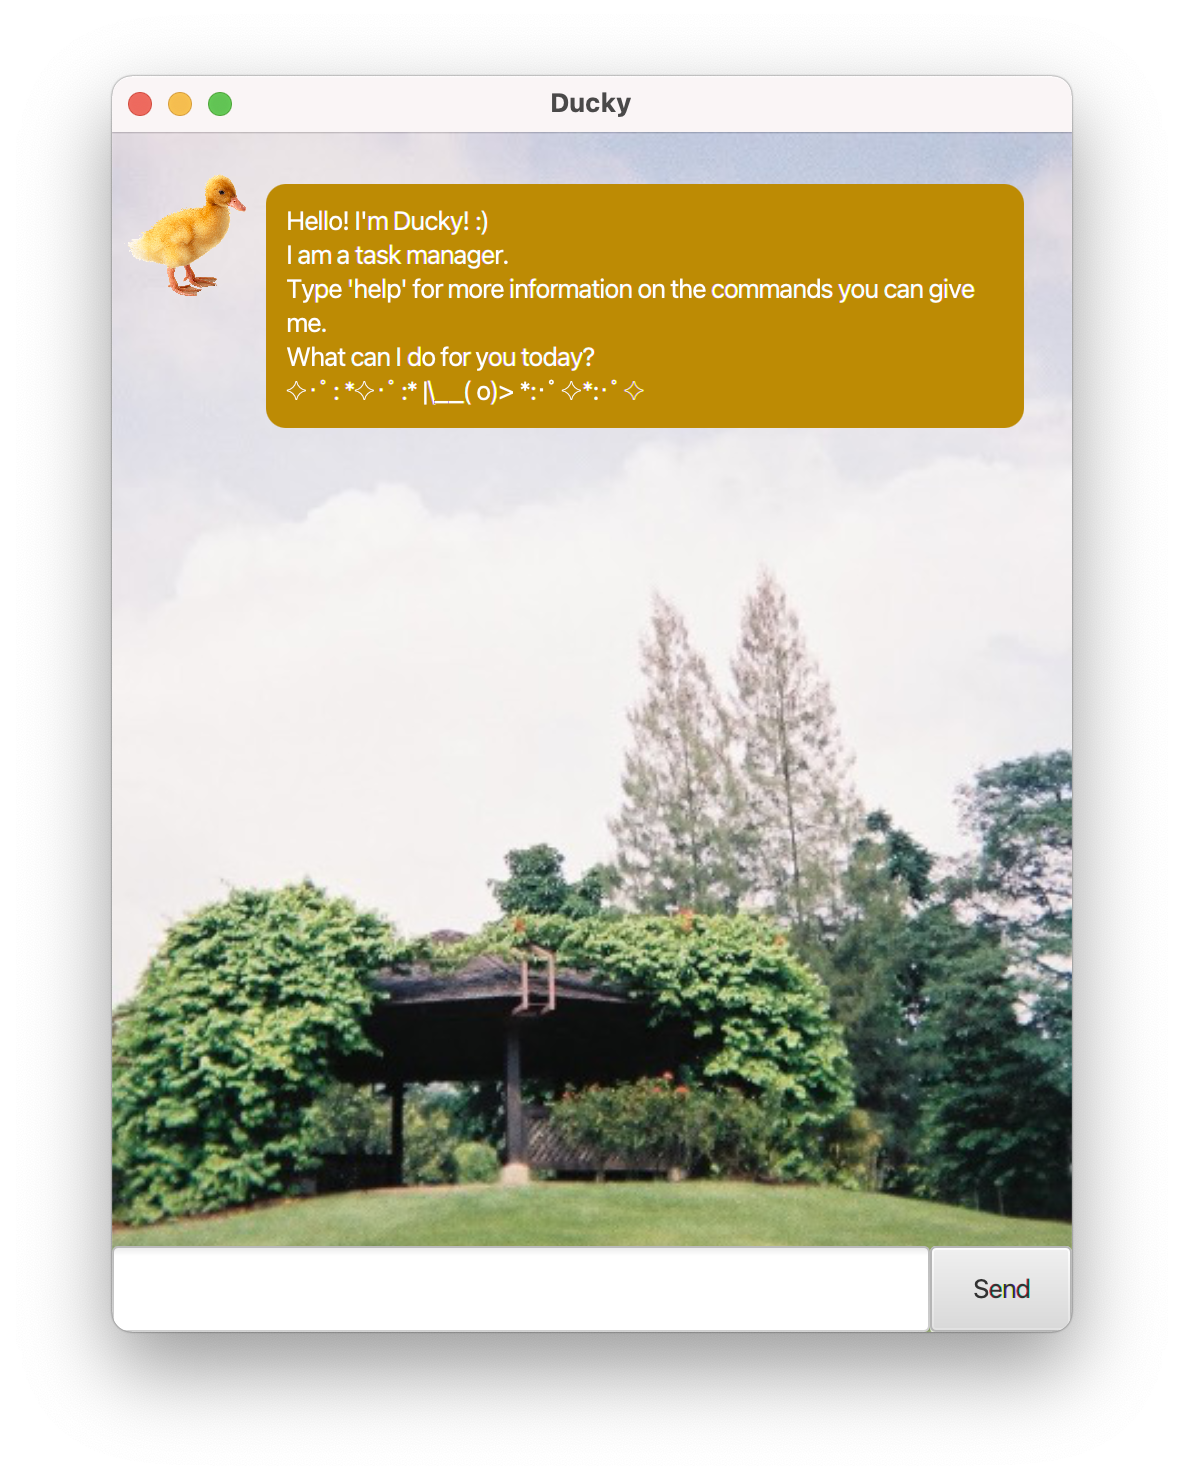
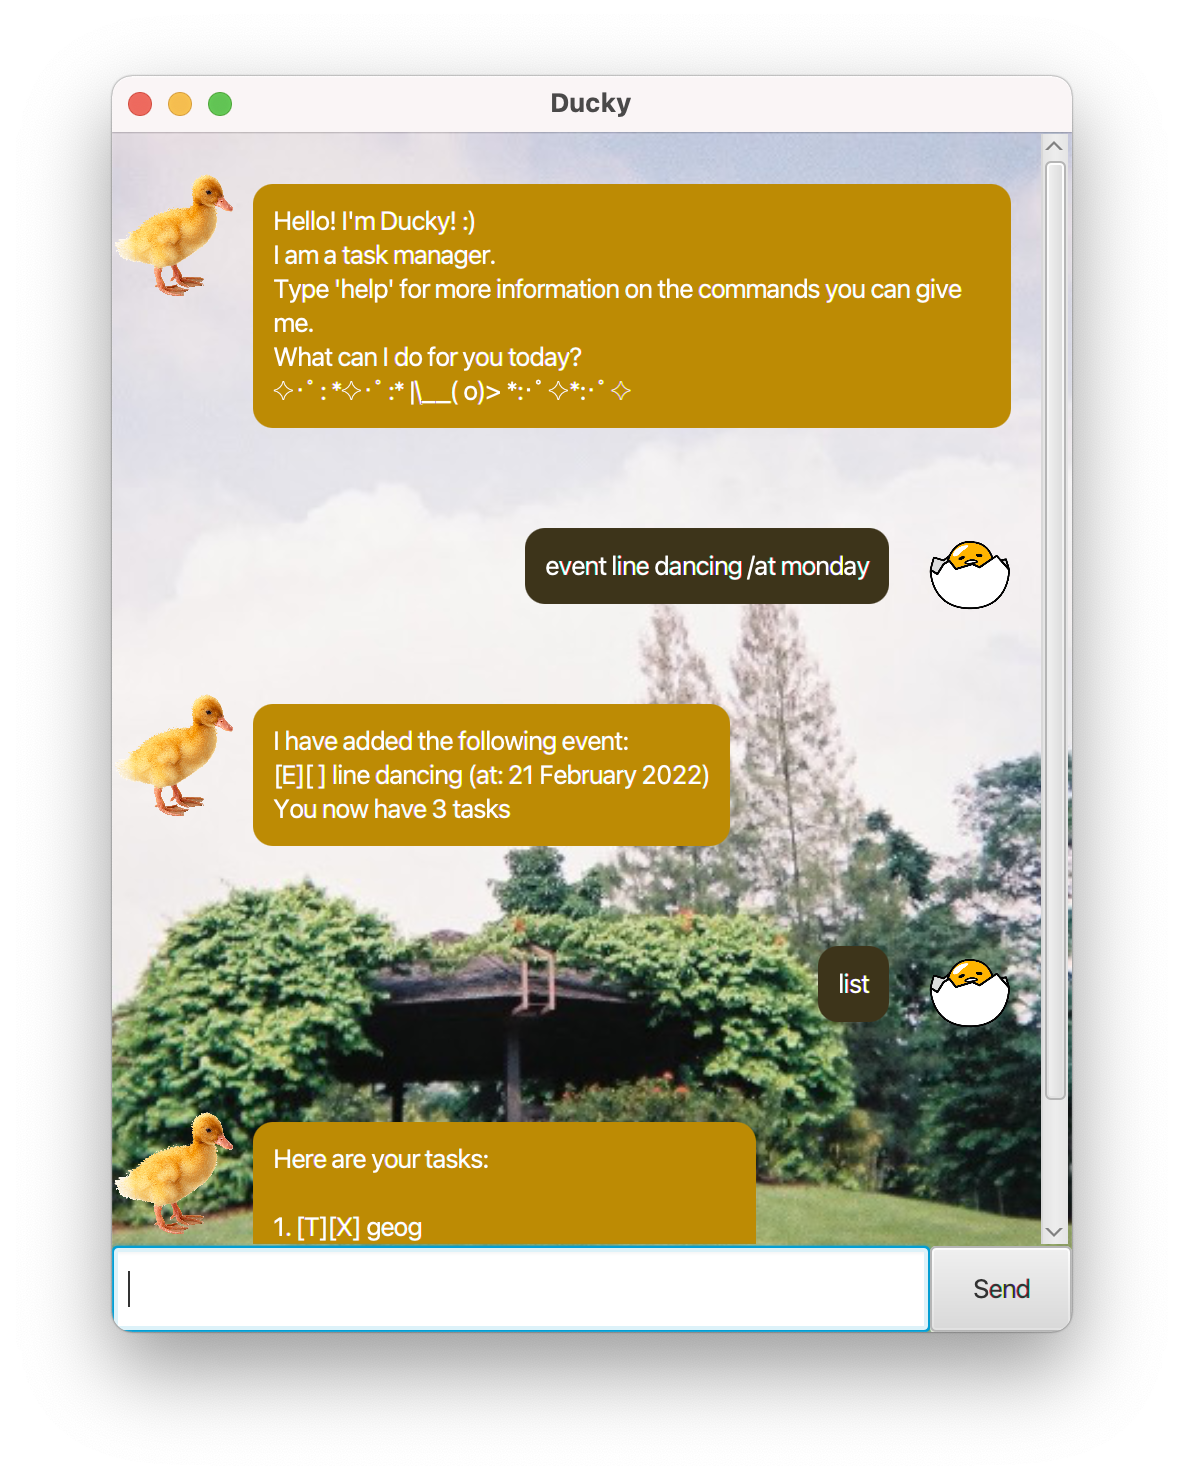
Add new Ui image
New Ui image now showcases some commands used. Ui is shown in the user
guide as well.

diff --git a/src/main/java/duke/DateHelper.java b/src/main/java/duke/DateHelper.java
@@ -16,7 +16,7 @@ import duke.DateChecker.Dates;
 public class DateHelper {
     private Date formattedDatetime;
     private String dateFormat;
-    private int daysAfter;
+    private int daysAfter = 0;
     private static final String INVALID_DATE = "Oops, please put a valid time format!\n"
             + "Let's try again ~(^.^)~\n"
             + "Type 'help' if you need to know how to use this command";
@@ -58,49 +58,49 @@ public class DateHelper {
         DateChecker dateCheck = new DateChecker(flexInput);
         Dates inputtedDay = dateCheck.getDate(); // This gives the enum date which is like "MONDAY"
         Calendar now = Calendar.getInstance();
-        int weekday = now.get(Calendar.DAY_OF_WEEK);
+        int today = now.get(Calendar.DAY_OF_WEEK);
         switch (inputtedDay) {
         case MONDAY:
-            if (weekday != Calendar.MONDAY) {
-                daysAfter = (Calendar.SATURDAY - weekday + 2) % 7;
-                dateFormat = formatDate(now);
+            if (today != Calendar.MONDAY) {
+                daysAfter = (Calendar.SATURDAY - today + 2) % 7;
             }
+            dateFormat = formatDate(now);
             break;
         case TUESDAY:
-            if (weekday != Calendar.TUESDAY) {
-                daysAfter = (Calendar.SATURDAY - weekday + 3) % 7;
-                dateFormat = formatDate(now);
+            if (today != Calendar.TUESDAY) {
+                daysAfter = (Calendar.SATURDAY - today + 3) % 7;
             }
+            dateFormat = formatDate(now);
             break;
         case WEDNESDAY:
-            if (weekday != Calendar.WEDNESDAY) {
-                daysAfter = (Calendar.SATURDAY - weekday + 4) % 7;
-                dateFormat = formatDate(now);
+            if (today != Calendar.WEDNESDAY) {
+                daysAfter = (Calendar.SATURDAY - today + 4) % 7;
             }
+            dateFormat = formatDate(now);
             break;
         case THURSDAY:
-            if (weekday != Calendar.THURSDAY) {
-                daysAfter = (Calendar.SATURDAY - weekday + 5) % 7;
-                dateFormat = formatDate(now);
+            if (today != Calendar.THURSDAY) {
+                daysAfter = (Calendar.SATURDAY - today + 5) % 7;
             }
+            dateFormat = formatDate(now);
             break;
         case FRIDAY:
-            if (weekday != Calendar.FRIDAY) {
-                daysAfter = (Calendar.SATURDAY - weekday + 6) % 7;
-                dateFormat = formatDate(now);
+            if (today != Calendar.FRIDAY) {
+                daysAfter = (Calendar.SATURDAY - today + 6) % 7;
             }
+            dateFormat = formatDate(now);
             break;
         case SATURDAY:
-            if (weekday != Calendar.SATURDAY) {
-                daysAfter = (Calendar.SATURDAY - weekday) % 7;
-                dateFormat = formatDate(now);
+            if (today != Calendar.SATURDAY) {
+                daysAfter = (Calendar.SATURDAY - today) % 7;
             }
+            dateFormat = formatDate(now);
             break;
         case SUNDAY:
-            if (weekday != Calendar.SUNDAY) {
-                daysAfter = (Calendar.SATURDAY - weekday + 1) % 7;
-                dateFormat = formatDate(now);
+            if (today != Calendar.SUNDAY) {
+                daysAfter = (Calendar.SATURDAY - today + 1) % 7;
             }
+            dateFormat = formatDate(now);
             break;
         case NODAYS:
             dateFormat = flexInput;
